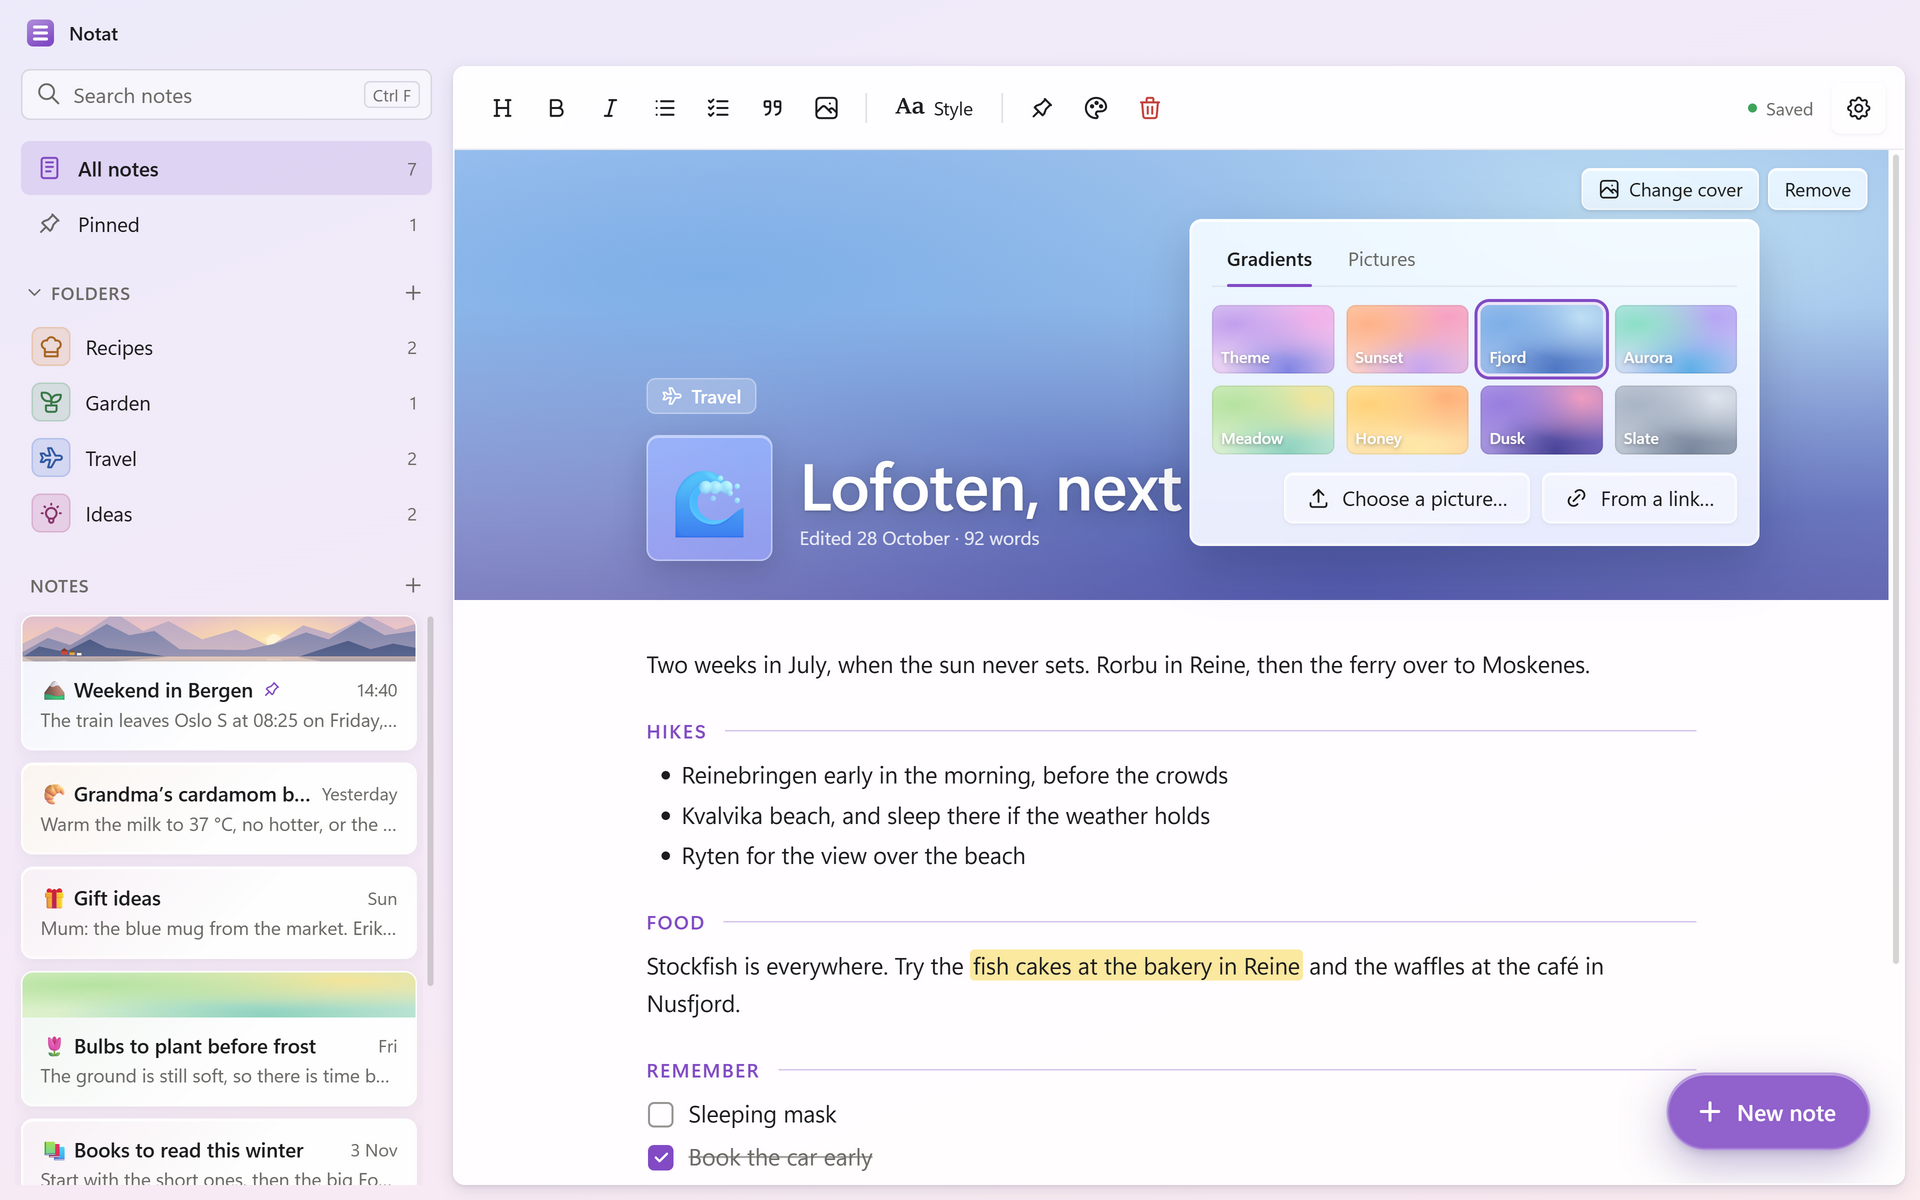
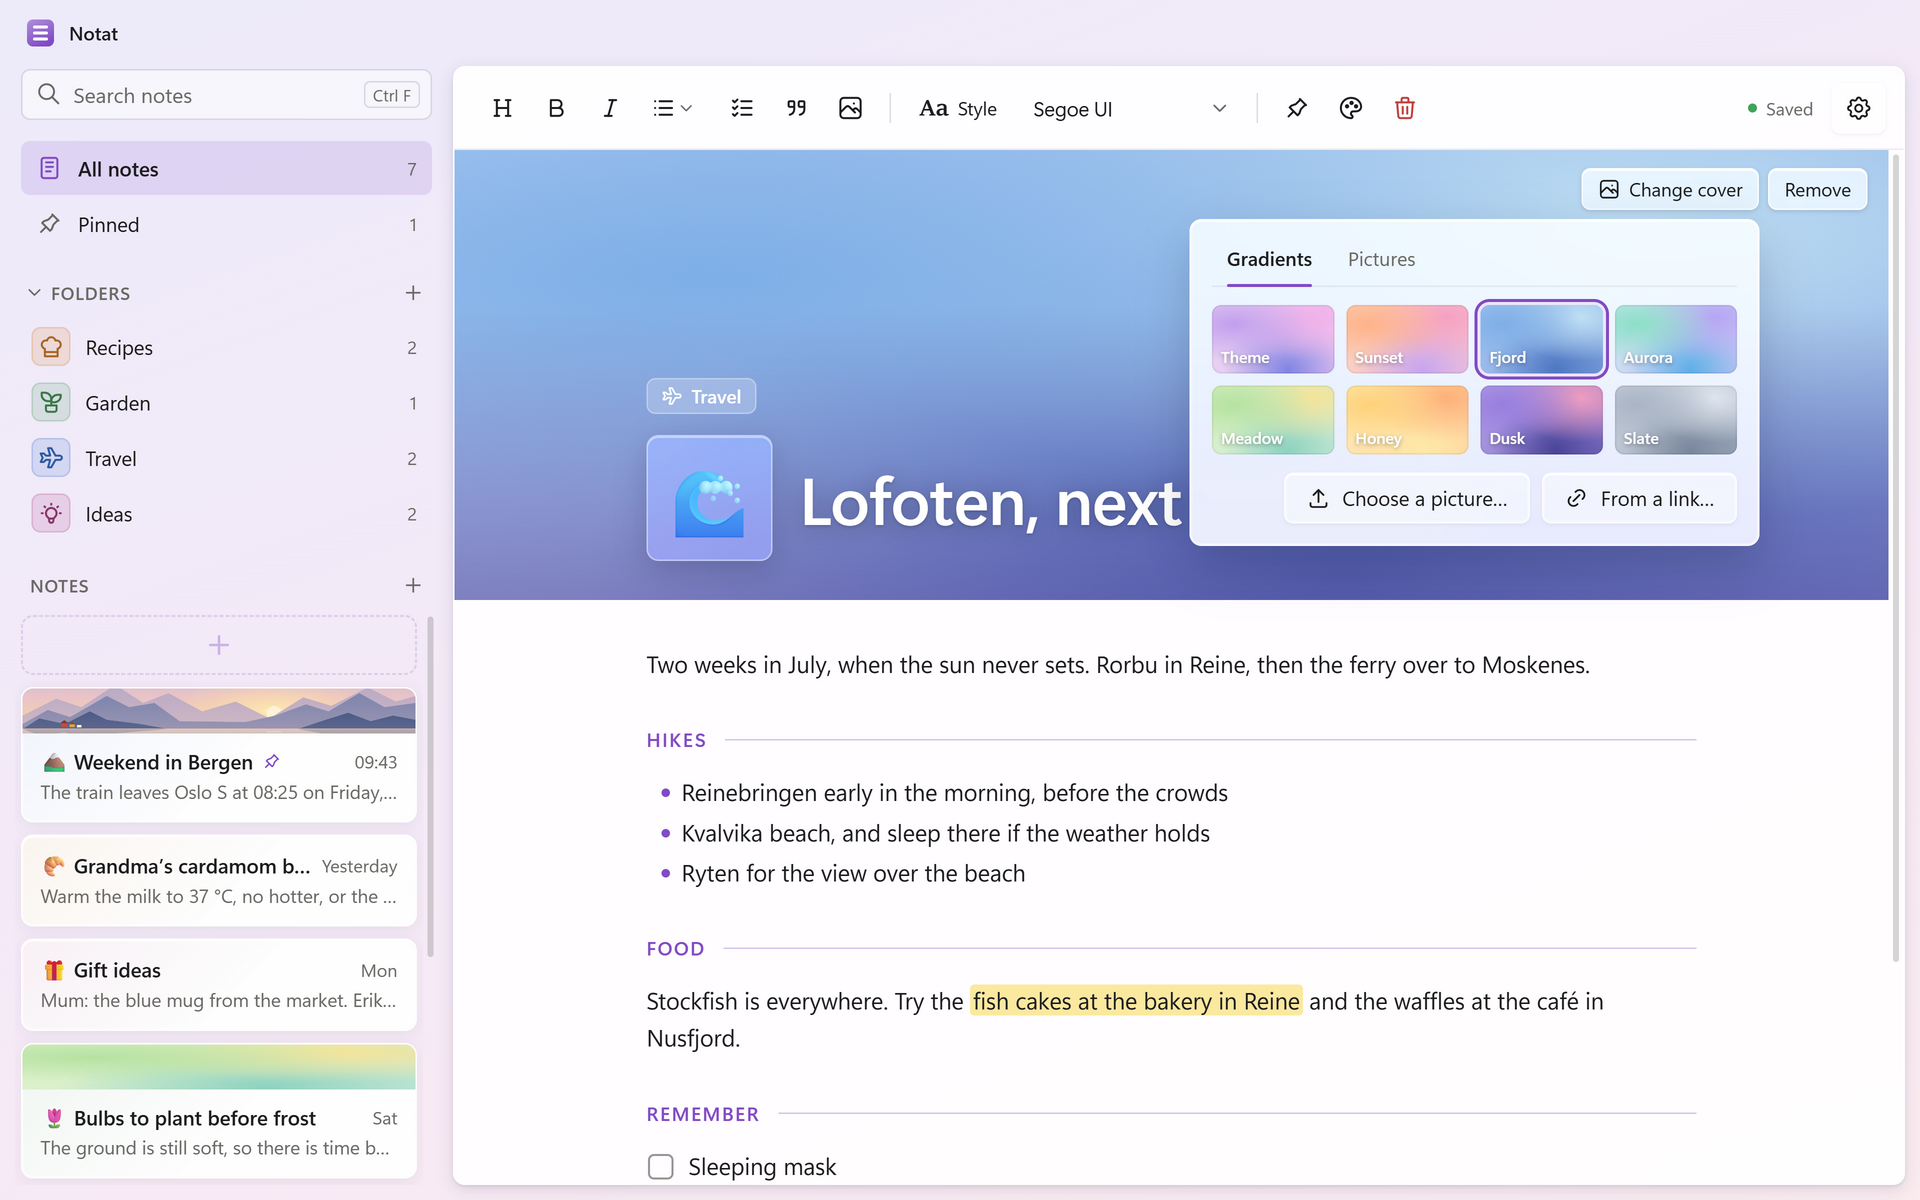
Update README and screenshots for 1.0.0

diff --git a/README.md b/README.md
@@ -8,12 +8,15 @@ Everything stays on your PC. There's no account, no cloud and no tracking.
 
 ## What it does
 
-- **Write the way you like.** Headings, lists, checklists you can tick off, quotes, links and pictures. Paste or drop a picture straight into a note.
-- **Covers and icons.** Give a note a cover (a soft gradient or one of your own pictures) and an emoji. Put the title on the cover for a magazine-like header.
-- **Four fonts.** Default, Serif, Mono, and Hand (Patrick Hand) for notes that should feel handwritten.
-- **Six heading styles.** Plain, Colour, Tag, Marker, Line, or Icon, with a small icon of your choice beside each heading.
-- **A highlighter that matches your theme.** Select some text and pick a colour: three shades of your theme, four contrasting colours chosen to go with it, or your own.
-- **Folders with icons.** Pick an icon and a colour for each folder, drag notes into them, and fold the list away when you don't need it.
+- **Write the way you like.** Headings, lists with your choice of bullets, checklists you can tick off, quotes, links and pictures. Paste or drop a picture straight into a note, make it smaller or larger, and let text sit beside it.
+- **Covers and icons.** Give a note a cover (a soft gradient or one of your own pictures, sharp or blurred) and any emoji or one of almost 5,000 line icons, with search. Put the title on the cover for a magazine-like header.
+- **Title styles.** Plain, Shadow, Gradient (in your own colours if you like), Marker, Sticker or Spaced, and the title can have its own font.
+- **Fonts.** Segoe UI, Sitka and Consolas, ten popular Google Fonts one click away, and any other font from Google Fonts: paste its link in Settings. Fonts are downloaded once and kept on your PC. Select some text to give just that text another font.
+- **Eight heading styles.** Plain, Colour, Tag, Marker, Line, Icon, Shadow or Number. Pick one for the whole note, or give a single heading its own style.
+- **A colour for each note.** A note's colour takes the theme colour's place inside it: headings, quotes, ticks, bullets and the highlighter all follow.
+- **A highlighter that matches.** Select some text and pick a colour: three shades of the note's colour, four contrasting colours chosen to go with it, your own, or whole sets of pastel highlighters (make your own from colour codes).
+- **Spelling in English or Norwegian,** chosen for each note.
+- **Folders with icons.** Pick an icon or emoji and any colour for each folder, drag notes into them, and fold the list away when you don't need it.
 - **Pin, tag and search.** Pinned notes stay at the top. Search looks through titles, text and #tags.
 - **Eight themes, light and dark.** The same pale gradients as Kalendar, with a transparency slider and Windows 11's frosted glass.
 - **Same theme as Kalendar.** Switch it on in both apps, and changing the theme in one changes it in the other.
@@ -21,20 +24,28 @@ Everything stays on your PC. There's no account, no cloud and no tracking.
 
 <table>
 <tr>
-<td><img src="docs/screenshots/notat-title-on-cover.png" alt="A note with the title on a green gradient cover, written in the Hand font with Icon headings"></td>
+<td><img src="docs/screenshots/notat-title-on-cover.png" alt="A note with the title on a green gradient cover, written in the Sitka font with Icon headings"></td>
 <td><img src="docs/screenshots/notat-dark.png" alt="Dark mode with a blue gradient cover and Line headings"></td>
 </tr>
 <tr>
-<td align="center">Title on the cover, Hand font, Icon headings</td>
+<td align="center">Title on the cover, Icon headings</td>
 <td align="center">Dark mode, Line headings</td>
 </tr>
 <tr>
-<td><img src="docs/screenshots/notat-highlighter.png" alt="The highlighter popover over selected text"></td>
-<td><img src="docs/screenshots/notat-style.png" alt="The Style popup with fonts, heading styles, page width and title position"></td>
+<td><img src="docs/screenshots/notat-title-styles.png" alt="The title's popup with a title font, six title styles and gradient colours, above Number headings and heart bullets"></td>
+<td><img src="docs/screenshots/notat-fonts.png" alt="The toolbar's font menu with built-in fonts and popular Google Fonts"></td>
 </tr>
 <tr>
-<td align="center">The highlighter, in your theme's colours</td>
-<td align="center">Style: font, headings, width, title</td>
+<td align="center">Click the title for its font and style</td>
+<td align="center">Fonts, including Google Fonts</td>
+</tr>
+<tr>
+<td><img src="docs/screenshots/notat-highlighter.png" alt="The bar over selected text with the highlighter"></td>
+<td><img src="docs/screenshots/notat-style.png" alt="The Style popup with font, heading styles, spelling and page width"></td>
+</tr>
+<tr>
+<td align="center">The highlighter, in the note's colours</td>
+<td align="center">Style: font, headings, spelling, width</td>
 </tr>
 <tr>
 <td><img src="docs/screenshots/notat-cover-picker.png" alt="Choosing a gradient cover"></td>
@@ -58,17 +69,18 @@ Everything stays on your PC. There's no account, no cloud and no tracking.
 | Ctrl+Alt+2 | Heading |
 | Ctrl+Shift+9 | Checklist |
 | Tab, Shift+Tab | Indent a list line, or move it back |
+| Enter on an empty line | Leave a quote |
 | Ctrl+click | Open a link |
 | Esc | Close a popup |
 
 ## Privacy
 
-Your notes are kept in `%APPDATA%\Notat` on your PC. Notat only goes online when you ask it to get a picture from a web address. "Same theme as Kalendar" uses a small file on your PC (`%APPDATA%\Kalendar and Notat\shared-theme.json`) and never leaves it.
+Your notes are kept in `%APPDATA%\Notat` on your PC. Notat only goes online when you ask it to: to get a picture from a web address, or to download a font from Google Fonts (fonts.googleapis.com and fonts.gstatic.com). "Same theme as Kalendar" uses a small file on your PC (`%APPDATA%\Kalendar and Notat\shared-theme.json`) and never leaves it. Spelling uses Windows' own spell checker.
 
 ## Getting Notat
 
-Notat is for Windows 10 and 11. The frosted glass needs Windows 11 version 22H2 or newer; on older versions Notat uses a solid background instead. Installers will be on the [Releases](https://github.com/ecnot/notat/releases) page.
+Notat is for Windows 10 and 11. Download the installer from the [Releases](https://github.com/ecnot/notat/releases) page. The frosted glass needs Windows 11 version 22H2 or newer; on older versions Notat uses a solid background instead. Norwegian spelling needs Norwegian (bokmål) added in Windows' language settings.
 
 ## Thanks
 
-Icons from [Tabler Icons](https://tabler.io/icons) (MIT). The Hand font is [Patrick Hand](https://fonts.google.com/specimen/Patrick+Hand) by Patrick Wagesreiter (SIL Open Font License).
+Icons from [Tabler Icons](https://tabler.io/icons) (MIT). Emoji names and keywords from [Emojibase](https://emojibase.dev) (MIT).
